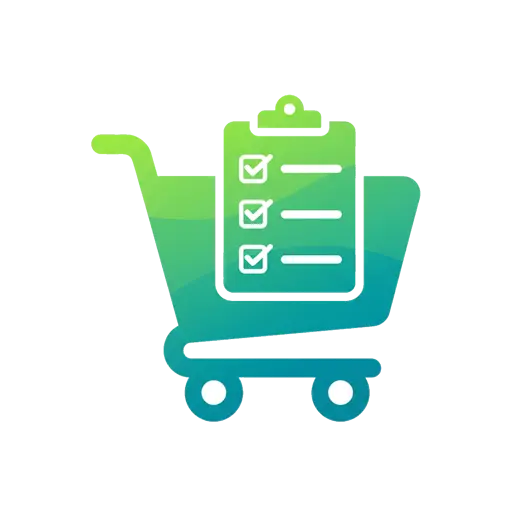
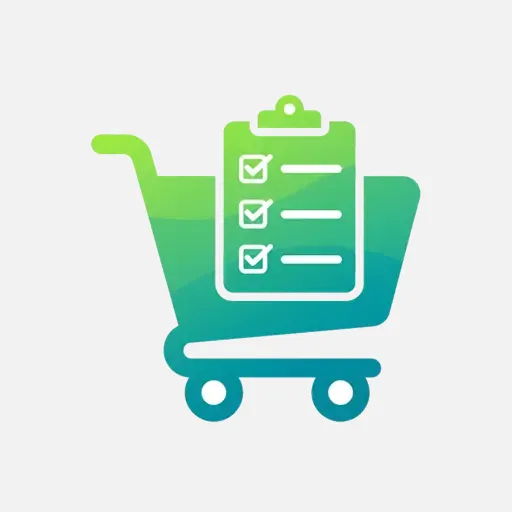
fix: PWAスプラッシュ画面の黒背景を修正
- maskableアイコン（icon-mask.webp）の透過背景を#f2f2f2で塗りつぶし
- iOS向けPWAメタタグを追加（apple-mobile-web-app-capable等）

diff --git a/index.html b/index.html
@@ -8,6 +8,9 @@
     <link rel="canonical" href="https://grocely-list.ashcolor.jp/" />
     <meta name="viewport" content="width=device-width, initial-scale=1.0" />
     <meta name="theme-color" content="#ffffff" />
+    <meta name="apple-mobile-web-app-capable" content="yes" />
+    <meta name="apple-mobile-web-app-status-bar-style" content="default" />
+    <meta name="apple-mobile-web-app-title" content="買い物リスト" />
     <title>買い物リスト</title>
     <meta name="description" content="シンプルな買い物リストアプリ" />
     <meta property="og:url" content="https://grocely-list.ashcolor.jp/" />
